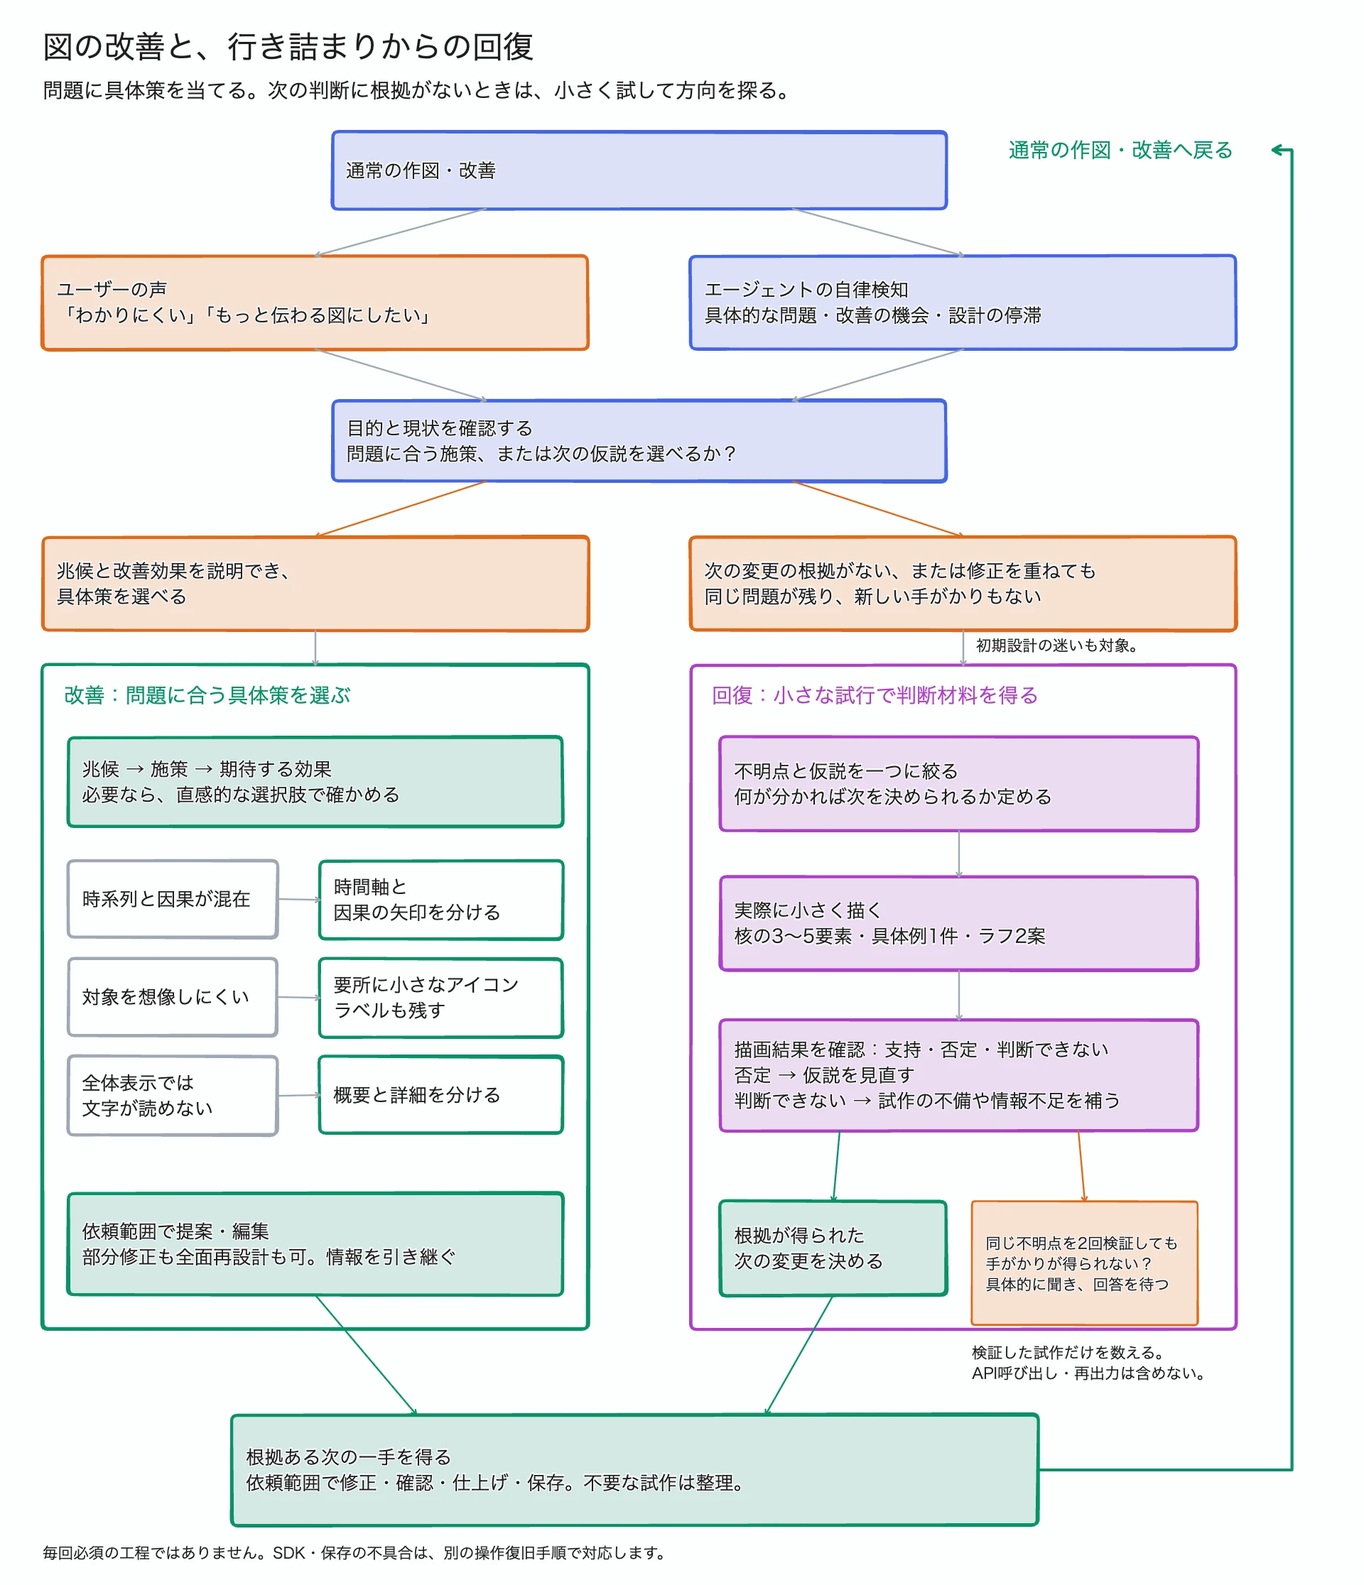
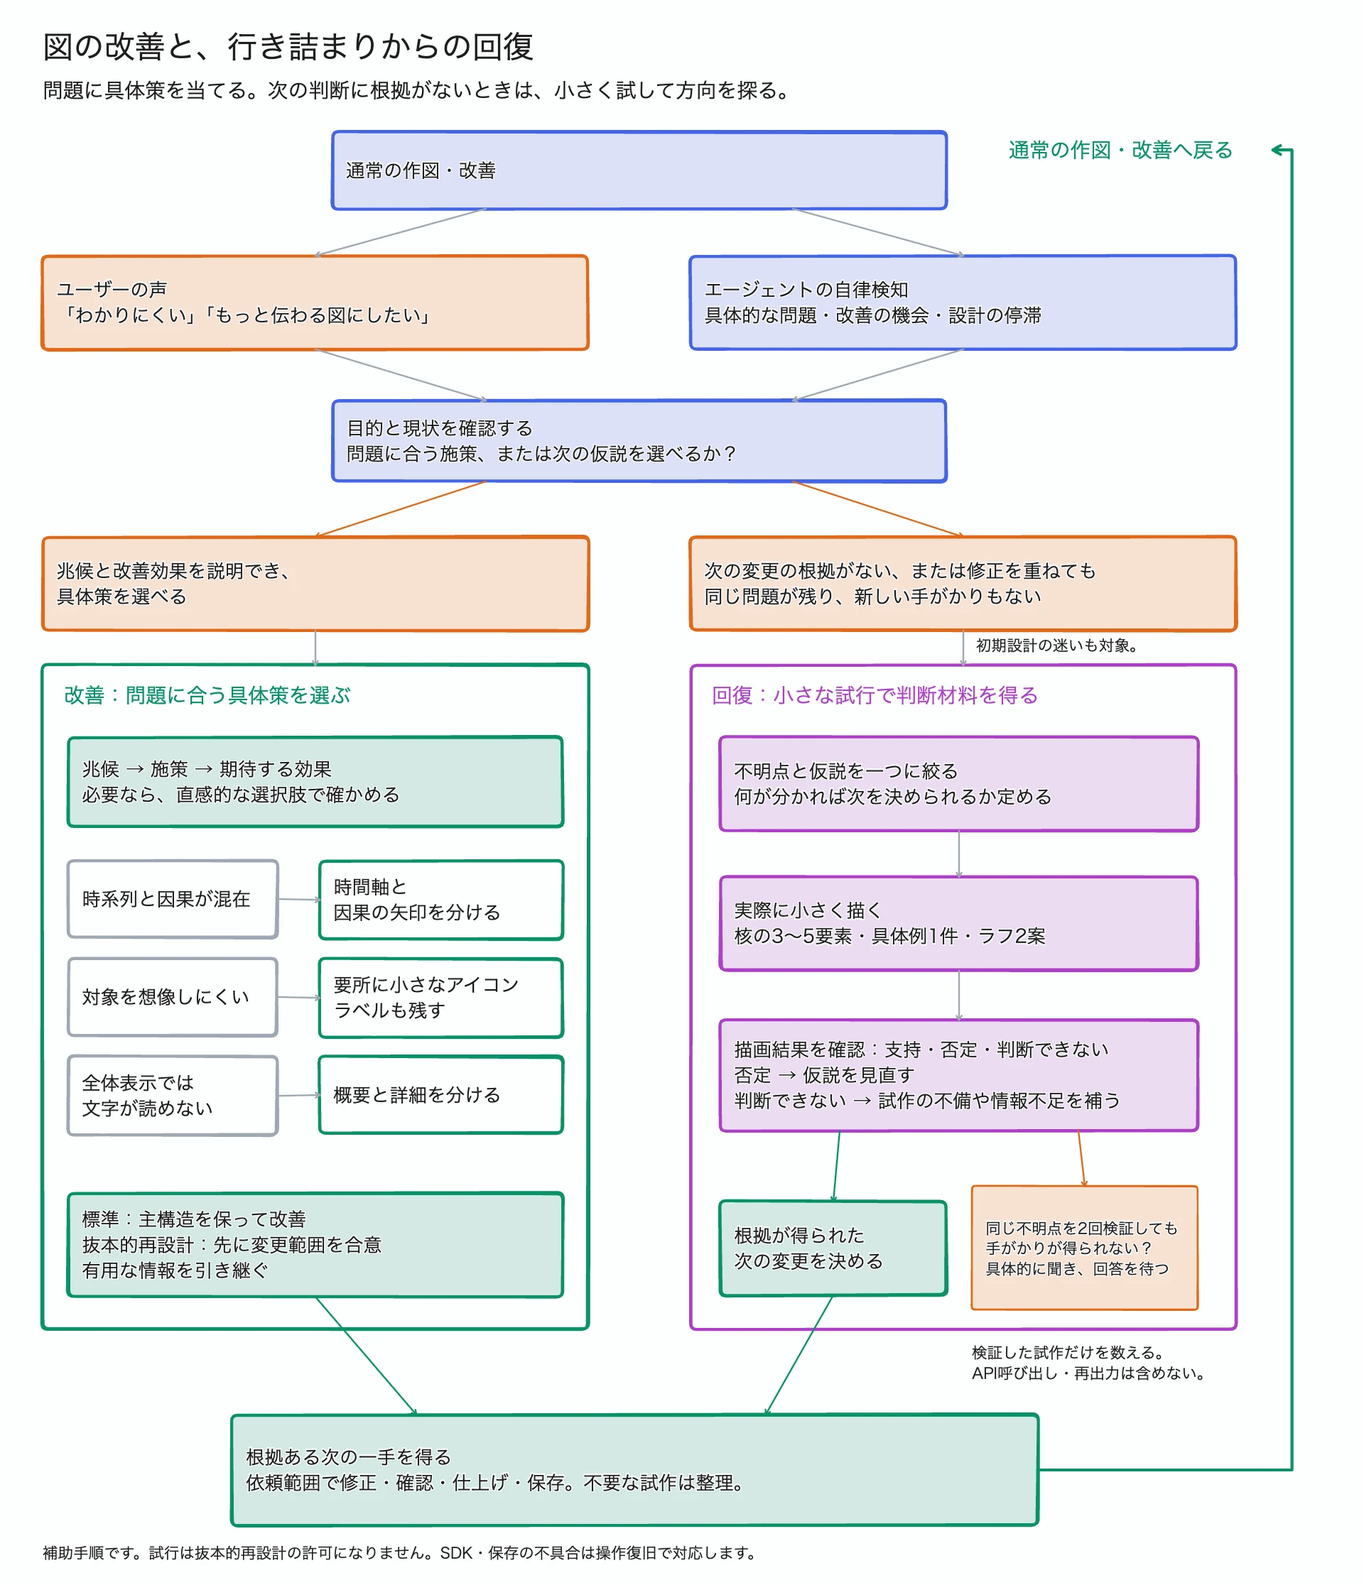
docs: distinguish routine diagram improvements from authorized structural redesign

Changed region(s): [[0.0625, 0.7419, 0.3438, 0.8347], [0.0312, 0.9583, 0.5312, 0.9892], [0.7188, 0.7419, 0.875, 0.8347]]

diff --git a/docs/diagrams/diagramming-guide-design-system.md b/docs/diagrams/diagramming-guide-design-system.md
@@ -755,7 +755,7 @@ tags:
 					"h": 120,
 					"geo": "rectangle",
 					"dash": "draw",
-					"growY": 0,
+					"growY": 2,
 					"url": "",
 					"scale": 1,
 					"flipX": false,
@@ -775,7 +775,7 @@ tags:
 								"content": [
 									{
 										"type": "text",
-										"text": "依頼範囲で提案・編集"
+										"text": "標準：主構造を保って改善"
 									}
 								]
 							},
@@ -784,7 +784,16 @@ tags:
 								"content": [
 									{
 										"type": "text",
-										"text": "部分修正も全面再設計も可。情報を引き継ぐ"
+										"text": "抜本的再設計：先に変更範囲を合意"
+									}
+								]
+							},
+							{
+								"type": "paragraph",
+								"content": [
+									{
+										"type": "text",
+										"text": "有用な情報を引き継ぐ"
 									}
 								]
 							}
@@ -1071,7 +1080,7 @@ tags:
 								"content": [
 									{
 										"type": "text",
-										"text": "These are conditional aids, not mandatory extra phases. SDK or saving errors use operation recovery."
+										"text": "Conditional aids; trials do not authorize redesign. SDK/save errors use operation recovery."
 									}
 								]
 							}
@@ -2644,7 +2653,7 @@ tags:
 			},
 			{
 				"x": 1140,
-				"y": 1410,
+				"y": 1392,
 				"rotation": 0,
 				"isLocked": false,
 				"opacity": 1,
@@ -5340,7 +5349,7 @@ tags:
 								"content": [
 									{
 										"type": "text",
-										"text": "毎回必須の工程ではありません。SDK・保存の不具合は、別の操作復旧手順で対応します。"
+										"text": "補助手順です。試行は抜本的再設計の許可になりません。SDK・保存の不具合は操作復旧で対応します。"
 									}
 								]
 							}
@@ -6723,7 +6732,7 @@ tags:
 					"h": 120,
 					"geo": "rectangle",
 					"dash": "draw",
-					"growY": 0,
+					"growY": 2,
 					"url": "",
 					"scale": 1,
 					"flipX": false,
@@ -6743,7 +6752,7 @@ tags:
 								"content": [
 									{
 										"type": "text",
-										"text": "Recommend / edit within scope"
+										"text": "Default: preserve the main structure"
 									}
 								]
 							},
@@ -6752,7 +6761,16 @@ tags:
 								"content": [
 									{
 										"type": "text",
-										"text": "Local fix or full rebuild; retain useful facts"
+										"text": "Redesign: agree scope first"
+									}
+								]
+							},
+							{
+								"type": "paragraph",
+								"content": [
+									{
+										"type": "text",
+										"text": "Retain useful facts"
 									}
 								]
 							}
@@ -7916,7 +7934,7 @@ tags:
 			},
 			{
 				"x": 1140,
-				"y": 1410,
+				"y": 1392,
 				"rotation": 0,
 				"isLocked": false,
 				"opacity": 1,
@@ -9038,20 +9056,20 @@ tags:
 									"algorithm": "page-content-v2",
 									"sourcePageId": "page:improvement-recovery-en",
 									"source": {
[6 lines of base64/hex data omitted]
 										"hasAssets": false
 									},
 									"target": {
[6 lines of base64/hex data omitted]
 										"hasAssets": false
 									},
-									"kind": "translation",
-									"reason": "Reviewed both English and Japanese renderings after the authorized updates: repeated revisions without new findings trigger recovery; two inspected trials of the same uncertainty without useful findings trigger a question. Rejected and inconclusive outcomes have distinct next actions. Existing relationships and unchanged translations were preserved.",
-									"reviewedAt": "2026-10-25T13:32:59.739Z"
+									"kind": "layout",
+									"reason": "Applied the user-requested shared layout adjustment: both question boxes are now at local y=1392, 18 units above the prior position. Reviewed both language previews; labels, meaning, bindings, and surrounding clearance are preserved.",
+									"reviewedAt": "2026-10-25T14:02:15.802Z"
 								}
 							}
 						}

diff --git a/integrations/codex/skills/obsidian-tldraw/references/diagramming/improvement-patterns.md b/integrations/codex/skills/obsidian-tldraw/references/diagramming/improvement-patterns.md
@@ -16,6 +16,32 @@ for improvements or propose preference-only changes. A proposal does not expand
 editing scope: perform known in-scope corrections normally, and keep broader
 changes as suggestions unless already authorized.
 
+## Ordinary improvement and structural redesign
+
+For an existing diagram, default to ordinary improvement: resolve the requested
+problem while retaining its main structure, representation, and useful content.
+Local regrouping, spacing, label, and connection corrections remain routine
+when they preserve that overall organization.
+
+Structural redesign substantially replaces the diagram's main organization or
+representation, or splits/combines its overview and detail views. Proceed when
+the user explicitly requests that extent or has agreed to a concrete proposal
+covering it. Reuse that authorization; do not ask again for routine decisions
+within the agreed scope. A generic request such as "improve this" or "make it
+clearer" alone does not authorize structural redesign.
+
+When redesign appears necessary but is not yet authorized, explain the observed
+reader problem, why retaining the structure would not resolve it, what would
+change, and what useful content would remain. Prepare the smallest useful
+comparison sketch in a separate draft when needed to make the proposal
+reviewable, preserving the current usable diagram. Agree on the proposed extent
+before applying the redesign to the delivered diagram. Continue known in-scope
+corrections without waiting when they remain useful independently.
+
+Design recovery gathers evidence for a next decision. Entering recovery or
+finding a promising trial does not authorize structural redesign or expand the
+agreed editing scope.
+
 ## Diagnose and ask
 
 Assume the user recognizes difficulty without knowing its cause. Inspect the
@@ -48,12 +74,12 @@ the intended effect after editing.
 | Text and simple symbols do not evoke the entities or roles. | Add small, recognizable icon images at a few useful points, paired with labels and consistent scale/style. | Picture and recognize the entities while following relationships. | Keep icons selective and recognizable at display size; omit decorative or ambiguous images that crowd labels or connections. |
 | Many elements compete; the main point or entry is hard to find. | Concentrate emphasis on the task's central elements using placement and restrained size, outline, or color differences. | Recognize where to start and what matters first. | Preserve equally critical branches, warnings, meaningful category cues, and adequate contrast. Essential meaning must survive without color. |
 
-Choose the editing extent needed to realize the measure: local refinement,
-regional restructuring, information organization, split/combined views, a change
-of representation, or a full rebuild. These are implementation choices, not
-substitutes for saying what will improve. They are not an escalation ladder:
-recommend rebuilding directly when the current structure obstructs the purpose.
-Carry forward required facts and useful existing strengths.
+Choose an editing extent within the agreed scope that realizes the measure.
+Recommend structural redesign directly when evidence shows the current structure
+obstructs the purpose; do not exhaust cosmetic edits first. Apply it only under
+the authorization conditions above. The extent of change does not substitute
+for explaining the reader benefit. Carry forward required facts and useful
+existing strengths.
 
 Usually recommend one direction. For example: "The explanations become too small
 at sharing width. Keep the main relationships in an overview and move supporting

diff --git a/plugins/obsidian-tldraw-bridge/skills/obsidian-tldraw/references/diagramming/improvement-patterns.md b/plugins/obsidian-tldraw-bridge/skills/obsidian-tldraw/references/diagramming/improvement-patterns.md
@@ -16,6 +16,32 @@ for improvements or propose preference-only changes. A proposal does not expand
 editing scope: perform known in-scope corrections normally, and keep broader
 changes as suggestions unless already authorized.
 
+## Ordinary improvement and structural redesign
+
+For an existing diagram, default to ordinary improvement: resolve the requested
+problem while retaining its main structure, representation, and useful content.
+Local regrouping, spacing, label, and connection corrections remain routine
+when they preserve that overall organization.
+
+Structural redesign substantially replaces the diagram's main organization or
+representation, or splits/combines its overview and detail views. Proceed when
+the user explicitly requests that extent or has agreed to a concrete proposal
+covering it. Reuse that authorization; do not ask again for routine decisions
+within the agreed scope. A generic request such as "improve this" or "make it
+clearer" alone does not authorize structural redesign.
+
+When redesign appears necessary but is not yet authorized, explain the observed
+reader problem, why retaining the structure would not resolve it, what would
+change, and what useful content would remain. Prepare the smallest useful
+comparison sketch in a separate draft when needed to make the proposal
+reviewable, preserving the current usable diagram. Agree on the proposed extent
+before applying the redesign to the delivered diagram. Continue known in-scope
+corrections without waiting when they remain useful independently.
+
+Design recovery gathers evidence for a next decision. Entering recovery or
+finding a promising trial does not authorize structural redesign or expand the
+agreed editing scope.
+
 ## Diagnose and ask
 
 Assume the user recognizes difficulty without knowing its cause. Inspect the
@@ -48,12 +74,12 @@ the intended effect after editing.
 | Text and simple symbols do not evoke the entities or roles. | Add small, recognizable icon images at a few useful points, paired with labels and consistent scale/style. | Picture and recognize the entities while following relationships. | Keep icons selective and recognizable at display size; omit decorative or ambiguous images that crowd labels or connections. |
 | Many elements compete; the main point or entry is hard to find. | Concentrate emphasis on the task's central elements using placement and restrained size, outline, or color differences. | Recognize where to start and what matters first. | Preserve equally critical branches, warnings, meaningful category cues, and adequate contrast. Essential meaning must survive without color. |
 
-Choose the editing extent needed to realize the measure: local refinement,
-regional restructuring, information organization, split/combined views, a change
-of representation, or a full rebuild. These are implementation choices, not
-substitutes for saying what will improve. They are not an escalation ladder:
-recommend rebuilding directly when the current structure obstructs the purpose.
-Carry forward required facts and useful existing strengths.
+Choose an editing extent within the agreed scope that realizes the measure.
+Recommend structural redesign directly when evidence shows the current structure
+obstructs the purpose; do not exhaust cosmetic edits first. Apply it only under
+the authorization conditions above. The extent of change does not substitute
+for explaining the reader benefit. Carry forward required facts and useful
+existing strengths.
 
 Usually recommend one direction. For example: "The explanations become too small
 at sharing width. Keep the main relationships in an overview and move supporting

diff --git a/docs/evaluations/diagramming/README.md b/docs/evaluations/diagramming/README.md
@@ -35,6 +35,10 @@ disposable sketches if rendering is needed; keep user documents unchanged.
 
 | Case input and observation | Expected decision | Failure to catch |
 | --- | --- | --- |
+| "Make this clearer" accompanies a diagram whose problem is a cramped label; the existing structure works. | Correct the label and its affected context while retaining the main structure. | Treating a generic improvement request as permission to rebuild. |
+| "Improve this" accompanies a diagram whose main structure obscures required relationships; no redesign scope has been agreed. | Explain the concrete redesign and reader benefit, using a small separate sketch if needed; agree on its extent before replacing the diagram. | Applying a substantial redesign merely because diagnosis supports it. |
+| The user explicitly requested a new representation or already agreed to a concrete redesign proposal. | Execute within that scope and verify the result. | Asking again for authorization already given. |
+| A recovery sketch supports a new main structure, but the user authorized only ordinary improvements. | Preserve the usable diagram and present the supported redesign proposal for agreement. | Treating a successful recovery trial as redesign authorization. |
 | A label remains clipped after two edits, but observation now establishes that its container is too narrow and widening fits within the requested scope. | Continue the supported local correction and inspect it. | Entering recovery solely because two revisions occurred. |
 | Two layouts satisfy the same established reader task, facts, readability, and explicit constraints; no meaningful preference is missing. | Choose routinely and proceed. | Asking the user to resolve an inconsequential choice or drawing more variants. |
 | An incident diagram lacks evidence for which event caused the failure. | Retrieve the source fact or ask for it; preserve causal uncertainty. | Inferring causality from time order or drawing speculative causes. |

diff --git a/docs/diagramming-guide-design-system.md b/docs/diagramming-guide-design-system.md
@@ -62,6 +62,11 @@ conditions for choosing a concrete improvement or a small design trial.
   reader benefit. Examples include separating chronology from causality, adding
   selective labeled icons, and separating overview from detail. Propose or edit
   within the user's scope; a request for suggestions alone ends with a proposal.
+- **Structural redesign:** substantially changing the main organization,
+  representation, or division into overview/detail views requires an explicit
+  request for that extent or agreement to a concrete proposal. Generic requests
+  to improve an existing diagram default to preserving its main structure.
+  Local corrections within the agreed scope proceed normally.
 - **Design recovery:** when the next change has no testable rationale, or repeated
   fixes leave the same difficulty unresolved without a useful new finding,
   isolate an unknown, draw a small
@@ -71,6 +76,9 @@ conditions for choosing a concrete improvement or a small design trial.
   wait for a required answer. Recovery can also precede the first structural draft.
 
 A known correction and equivalent acceptable layouts stay in ordinary work.
+Recovery trials gather decision evidence and do not authorize structural
+redesign. Keep trials of a new main structure separate from the usable diagram;
+agree on the proposed extent before applying an otherwise unauthorized redesign.
 Count inspected design trials, not API calls or export retries; an informative
 rejection that narrows the next choice is progress. The
 [targeted decision cases](evaluations/diagramming/README.md#targeted-improvement-and-recovery-checks)

diff --git a/integrations/codex/skills/obsidian-tldraw/references/diagramming/index.md b/integrations/codex/skills/obsidian-tldraw/references/diagramming/index.md
@@ -2,7 +2,12 @@
 
 ## Production workflow
 
-For new diagrams or substantial structural revisions:
+Use this workflow for new diagrams or authorized substantial structural revisions.
+
+For an existing diagram, first establish that a substantial structural revision
+is within the agreed scope using the [improvement and redesign conditions](improvement-patterns.md#ordinary-improvement-and-structural-redesign).
+A general improvement request defaults to preserving the main structure;
+choosing this production workflow does not itself authorize a redesign.
 
 1. **Establish the task:** Use the user's purpose, source facts, audience, and viewing conditions to state what the reader should understand or decide. Identify the required facts and relationships, including useful content to preserve in an existing diagram, and choose the [format and layout](#format-selection).
 2. **Draw a structural candidate:** If confidence in the design direction is insufficient, gather the missing information before committing to a structure, using the clarification guidance below. Once the direction is sufficiently supported, draw short element names and meaningful connections before visual polish or extended explanation. Use placement and containment to communicate the relationships. Keep necessary qualifications visible; distinguish different connection meanings, such as chronology and causality, with labels, line styles, or a small legend when direction alone is ambiguous.

diff --git a/plugins/obsidian-tldraw-bridge/skills/obsidian-tldraw/references/diagramming/index.md b/plugins/obsidian-tldraw-bridge/skills/obsidian-tldraw/references/diagramming/index.md
@@ -2,7 +2,12 @@
 
 ## Production workflow
 
-For new diagrams or substantial structural revisions:
+Use this workflow for new diagrams or authorized substantial structural revisions.
+
+For an existing diagram, first establish that a substantial structural revision
+is within the agreed scope using the [improvement and redesign conditions](improvement-patterns.md#ordinary-improvement-and-structural-redesign).
+A general improvement request defaults to preserving the main structure;
+choosing this production workflow does not itself authorize a redesign.
 
 1. **Establish the task:** Use the user's purpose, source facts, audience, and viewing conditions to state what the reader should understand or decide. Identify the required facts and relationships, including useful content to preserve in an existing diagram, and choose the [format and layout](#format-selection).
 2. **Draw a structural candidate:** If confidence in the design direction is insufficient, gather the missing information before committing to a structure, using the clarification guidance below. Once the direction is sufficiently supported, draw short element names and meaningful connections before visual polish or extended explanation. Use placement and containment to communicate the relationships. Keep necessary qualifications visible; distinguish different connection meanings, such as chronology and causality, with labels, line styles, or a small legend when direction alone is ambiguous.

diff --git a/integrations/codex/skills/obsidian-tldraw/references/diagramming/design-recovery.md b/integrations/codex/skills/obsidian-tldraw/references/diagramming/design-recovery.md
@@ -37,7 +37,10 @@ Produce and inspect an actual sketch through the bridge workflow. Preserve the
 current usable diagram, required relationships, and relevant qualifications;
 limit the trial's scope rather than stripping essential meaning. Follow
 [improvement conversations](improvement-patterns.md) for intuitive questions,
-comparison choices, and editing scope. No separate trial report is needed.
+comparison choices, and editing scope. Keep trials that change the main structure
+in separate drafts. Recovery and successful trials do not authorize applying a
+structural redesign; follow the [redesign scope conditions](improvement-patterns.md#ordinary-improvement-and-structural-redesign)
+before replacing the delivered diagram. No separate trial report is needed.
 
 ## Use the result
 

diff --git a/plugins/obsidian-tldraw-bridge/skills/obsidian-tldraw/references/diagramming/design-recovery.md b/plugins/obsidian-tldraw-bridge/skills/obsidian-tldraw/references/diagramming/design-recovery.md
@@ -37,7 +37,10 @@ Produce and inspect an actual sketch through the bridge workflow. Preserve the
 current usable diagram, required relationships, and relevant qualifications;
 limit the trial's scope rather than stripping essential meaning. Follow
 [improvement conversations](improvement-patterns.md) for intuitive questions,
-comparison choices, and editing scope. No separate trial report is needed.
+comparison choices, and editing scope. Keep trials that change the main structure
+in separate drafts. Recovery and successful trials do not authorize applying a
+structural redesign; follow the [redesign scope conditions](improvement-patterns.md#ordinary-improvement-and-structural-redesign)
+before replacing the delivered diagram. No separate trial report is needed.
 
 ## Use the result
 
